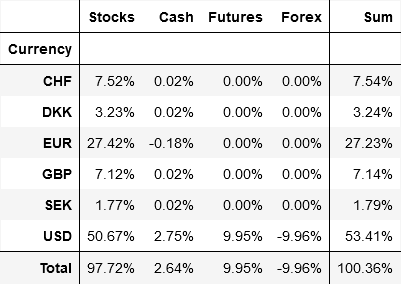
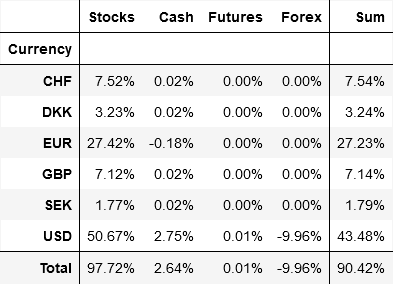
adjust hedge

diff --git a/bm.py b/bm.py
@@ -57,6 +57,7 @@ hedge_query = """
              positions.total_exposure as total_exposure,
              positions.last_xrate_quantity,
              positions.value_base_ccy as value,
+             positions.percent_nav,
              positions.profit_and_loss_percent,
              positions.country_of_domicile as country,
              positions.gics_industry_sector as sector,
@@ -115,7 +116,7 @@ def get_hedge(id: str) -> pd.DataFrame:
     currency = portfolio.groupby('Currency').apply(lambda df: pd.Series({
         'Stocks': df.loc[stocks_mask, 'total_exposure_pct'].sum() * 100,
         'Cash': df.loc[cash_mask, 'total_exposure_pct'].sum() * 100,
-        'Futures': df.loc[futures_mask, 'total_exposure_pct'].sum() * 100,
+        'Futures': df.loc[futures_mask, 'percent_nav'].sum(),
         'Forex': df.loc[futures_fx_mask, 'total_exposure_pct'].sum() * -1 * 100 + df.loc[forex_mask, 'total_exposure_pct'].sum() * 100
     })).reset_index()
 
